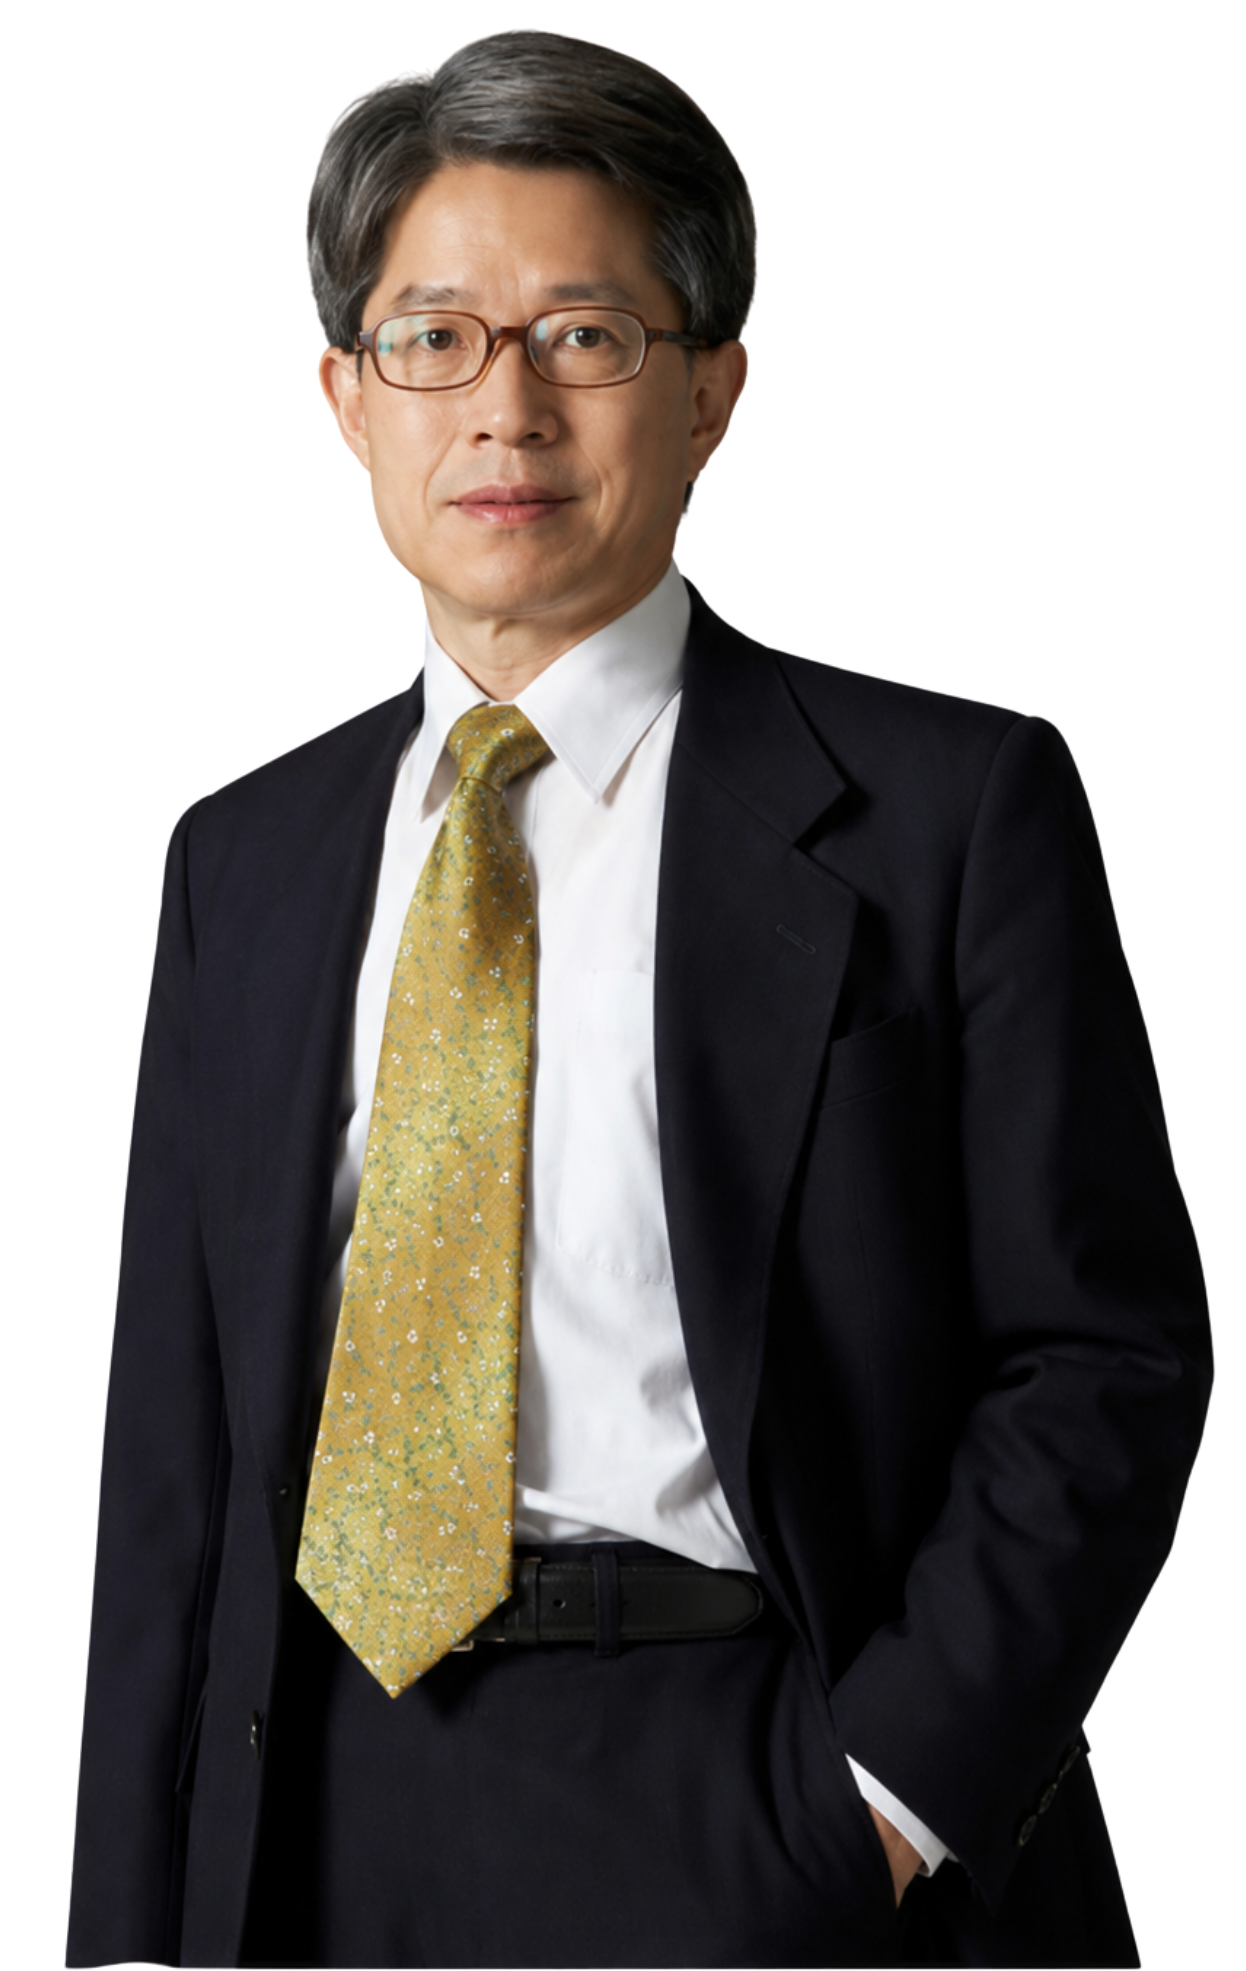
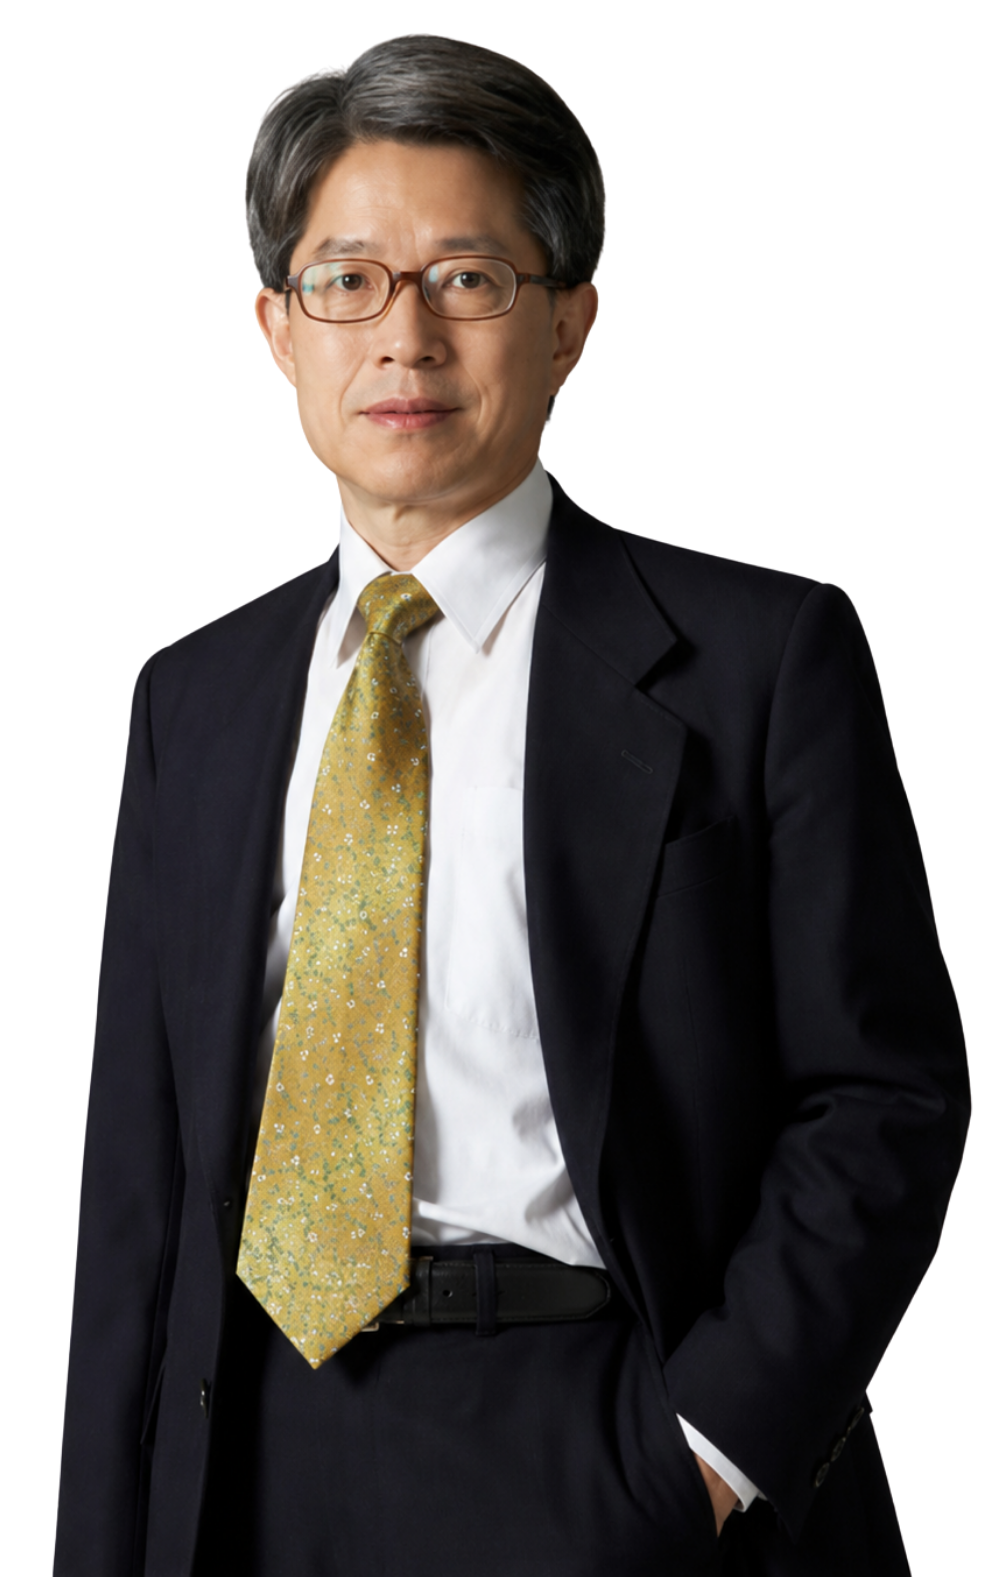
재업로드된 원장 사진으로 교체

diff --git a/about.html b/about.html
@@ -49,7 +49,7 @@
       <h2>의료진 소개</h2>
     </div>
     <div class="doc-flex">
-      <img class="doc-photo" src="images/doctor.jpg?v=3" alt="박종윤 대표원장">
+      <img class="doc-photo" src="images/doctor.jpg?v=4" alt="박종윤 대표원장">
       <div>
         <h3 class="doc-name">박종윤 <small>대표원장</small></h3>
         <ul class="doc-list">
